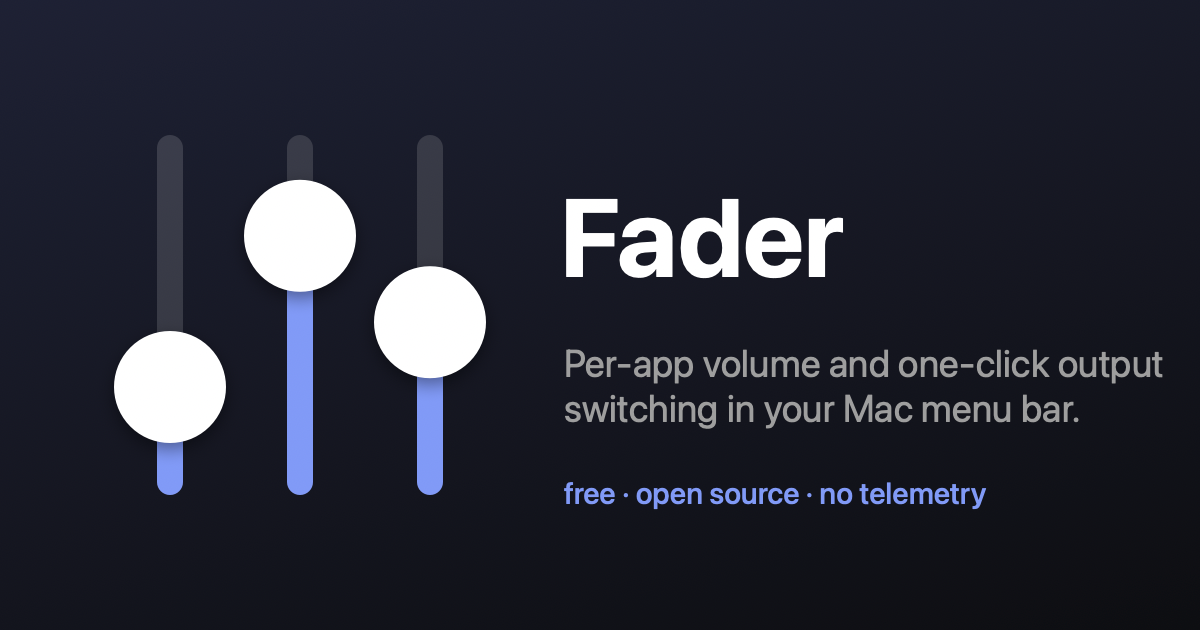
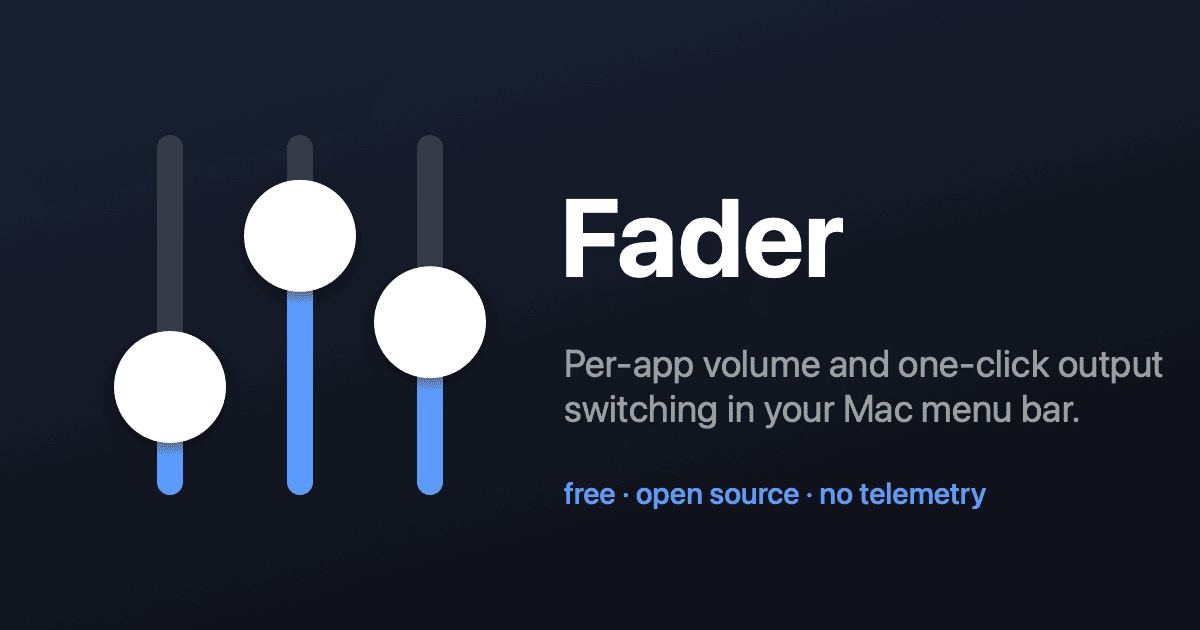
fix: harden pipelines, site, and audio path per full open-source review
Supply chain: actions pinned to commit SHAs; CI toolchain installed from
sha256-verified release archives (scripts/install-ci-tools.sh); dependabot
weekly. Release: idempotent (draft + clobber + publish), concurrency-
queued, p12 cleaned up on failure, keychain access scoped to codesign,
notary creds via keychain profile instead of ps-visible passwords.
Site: pointercancel handling for slider drags, security headers
(_headers), og/icon PNGs compressed 20x, version-floor wording unified,
sitemap lastmod. App: render falls back to passthrough when the
aggregate stream is not Float32 PCM, system volume/mute no longer
desyncs when a HAL write fails, monitor start() is idempotent, stale
Bluetooth refreshes can't overwrite fresher ones, app names redacted in
logs, dead code removed.

Review artifact: .reviews/fader-full-b471aab.md (local).

diff --git a/Fader/Audio/ProcessTap.swift b/Fader/Audio/ProcessTap.swift
@@ -21,6 +21,10 @@ final class ProcessTap: @unchecked Sendable {
     private nonisolated(unsafe) var _currentGain: Float
     /// Per-frame ramp coefficient for ~30 ms exponential gain smoothing.
     private nonisolated(unsafe) var _rampCoefficient: Float = 0.0007
+    /// The gain path assumes Float32 PCM. Verified at activation; on any other
+    /// format the render falls back to bit-exact passthrough instead of
+    /// reinterpreting foreign bytes as floats.
+    private nonisolated(unsafe) var _isFloat32 = true
 
     private var tapID = AudioObjectID.unknown
     private var aggregateID = AudioObjectID.unknown
@@ -84,6 +88,8 @@ final class ProcessTap: @unchecked Sendable {
         try? aggregateID.read(kAudioDevicePropertyNominalSampleRate, into: &sampleRate)
         _rampCoefficient = 1 - exp(-1 / (Float(sampleRate) * 0.030))
 
+        verifyStreamFormat()
+
         var proc: AudioDeviceIOProcID?
         try checked(
             // @Sendable strips inferred @MainActor isolation: the HAL invokes
@@ -103,6 +109,22 @@ final class ProcessTap: @unchecked Sendable {
         let processIDs = processObjectIDs.map(String.init).joined(separator: ",")
         Self.logger
             .info("Tap active for processes [\(processIDs, privacy: .public)]: tap \(tap), aggregate \(aggregate)")
+    }
+
+    /// Confirms the gain path's Float32 PCM assumption against the aggregate's
+    /// actual stream format; any other format flips the render to passthrough.
+    @MainActor
+    private func verifyStreamFormat() {
+        var format = AudioStreamBasicDescription()
+        guard (try? aggregateID.read(kAudioDevicePropertyStreamFormat,
+                                     scope: kAudioDevicePropertyScopeOutput,
+                                     into: &format)) != nil else { return }
+        _isFloat32 = format.mFormatID == kAudioFormatLinearPCM
+            && format.mFormatFlags & kAudioFormatFlagIsFloat != 0
+            && format.mBitsPerChannel == 32
+        if !_isFloat32 {
+            Self.logger.warning("Aggregate stream is not Float32 PCM; gain disabled, passing through")
+        }
     }
 
     /// Tears down in the HAL-required order: stop → IO proc → aggregate → tap.
@@ -141,6 +163,10 @@ final class ProcessTap: @unchecked Sendable {
             Self.silence(output)
             return
         }
+        if !_isFloat32 {
+            Self.passthrough(input, into: output)
+            return
+        }
 
         let inputs = UnsafeMutableAudioBufferListPointer(UnsafeMutablePointer(mutating: input))
         let outputs = UnsafeMutableAudioBufferListPointer(output)
@@ -161,13 +187,19 @@ final class ProcessTap: @unchecked Sendable {
             let count = min(Int(inputs[index].mDataByteSize) / MemoryLayout<Float>.size, outCount)
             let channels = max(1, Int(outBuffer.mNumberChannels))
 
-            gain = _currentGain
+            // One ramp shared across the buffer list; in practice taps deliver
+            // a single interleaved buffer, so this is exact.
             var frameGain = gain
             for frame in stride(from: 0, to: count, by: channels) {
                 frameGain += (targetGain - frameGain) * ramp
                 for channel in 0 ..< channels where frame + channel < count {
                     outSamples[frame + channel] = inSamples[frame + channel] * frameGain
                 }
+            }
+            // Snap once converged: stops the asymptotic tail (denormal-prone
+            // when ramping to 0 on non-Apple-silicon FPUs).
+            if abs(frameGain - targetGain) < 1e-6 {
+                frameGain = targetGain
             }
             gain = frameGain
             if count < outCount {
@@ -181,6 +213,25 @@ final class ProcessTap: @unchecked Sendable {
         for buffer in UnsafeMutableAudioBufferListPointer(output) {
             if let data = buffer.mData {
                 memset(data, 0, Int(buffer.mDataByteSize))
+            }
+        }
+    }
+
+    /// Bit-exact copy for unexpected stream formats: no gain, no reinterpretation.
+    private static func passthrough(_ input: UnsafePointer<AudioBufferList>,
+                                    into output: UnsafeMutablePointer<AudioBufferList>) {
+        let inputs = UnsafeMutableAudioBufferListPointer(UnsafeMutablePointer(mutating: input))
+        for (index, outBuffer) in UnsafeMutableAudioBufferListPointer(output).enumerated() {
+            guard let outData = outBuffer.mData else { continue }
+            let outBytes = Int(outBuffer.mDataByteSize)
+            guard index < inputs.count, let inData = inputs[index].mData else {
+                memset(outData, 0, outBytes)
+                continue
+            }
+            let bytes = min(Int(inputs[index].mDataByteSize), outBytes)
+            memcpy(outData, inData, bytes)
+            if bytes < outBytes {
+                memset(outData.advanced(by: bytes), 0, outBytes - bytes)
             }
         }
     }

diff --git a/Fader/Audio/SystemVolumeController.swift b/Fader/Audio/SystemVolumeController.swift
@@ -26,16 +26,25 @@ final class SystemVolumeController {
     }
 
     func setVolume(_ value: Float) {
-        volume = max(0, min(1, value))
-        try? device.write(kAudioHardwareServiceDeviceProperty_VirtualMainVolume,
-                          scope: kAudioDevicePropertyScopeOutput,
-                          value: volume)
+        let clamped = max(0, min(1, value))
+        do {
+            try device.write(kAudioHardwareServiceDeviceProperty_VirtualMainVolume,
+                             scope: kAudioDevicePropertyScopeOutput,
+                             value: clamped)
+            volume = clamped
+        } catch {
+            readBack() // keep published state honest when the HAL write fails
+        }
     }
 
     func toggleMute() {
         let next: UInt32 = isMuted ? 0 : 1
-        try? device.write(kAudioDevicePropertyMute, scope: kAudioDevicePropertyScopeOutput, value: next)
-        isMuted.toggle()
+        do {
+            try device.write(kAudioDevicePropertyMute, scope: kAudioDevicePropertyScopeOutput, value: next)
+            isMuted = next != 0
+        } catch {
+            readBack()
+        }
     }
 
     // MARK: - Private

diff --git a/Fader/Audio/BluetoothAudioMonitor.swift b/Fader/Audio/BluetoothAudioMonitor.swift
@@ -23,11 +23,20 @@ final class BluetoothAudioMonitor {
     /// Addresses with a connect/disconnect operation in flight.
     private(set) var busy: Set<String> = []
 
+    /// Orders overlapping refreshes: a stale enumeration that finishes late
+    /// must not overwrite a fresher list.
+    @ObservationIgnored private var refreshGeneration = 0
+
     /// Enumerates off the main actor — IOBluetooth calls can block.
     func refresh() {
+        refreshGeneration += 1
+        let generation = refreshGeneration
         Task.detached(priority: .userInitiated) {
             let devices = Self.readPairedAudioDevices()
-            await MainActor.run { [weak self] in self?.paired = devices }
+            await MainActor.run { [weak self] in
+                guard let self, generation == refreshGeneration else { return }
+                paired = devices
+            }
         }
     }
 

diff --git a/Fader/Audio/HALProperty.swift b/Fader/Audio/HALProperty.swift
@@ -19,6 +19,10 @@ extension AudioObjectID {
     }
 
     /// Reads a fixed-size property value.
+    ///
+    /// `T` must be a trivial C-layout value type (numbers, structs of them,
+    /// CoreAudio descriptors): the HAL blits raw bytes over it, which would
+    /// corrupt ARC-managed references. Strings go through `readString`.
     func read<T>(_ selector: AudioObjectPropertySelector,
                  scope: AudioObjectPropertyScope = kAudioObjectPropertyScopeGlobal,
                  into value: inout T) throws {
@@ -55,7 +59,8 @@ extension AudioObjectID {
         return value as String
     }
 
-    /// Writes a fixed-size property value.
+    /// Writes a fixed-size property value. Same `T` contract as `read`:
+    /// trivial C-layout value types only.
     func write<T>(_ selector: AudioObjectPropertySelector,
                   scope: AudioObjectPropertyScope = kAudioObjectPropertyScopeGlobal,
                   value: T) throws {
@@ -89,10 +94,6 @@ extension AudioObjectID {
         var pid: pid_t = -1
         try read(kAudioProcessPropertyPID, into: &pid)
         return pid
-    }
-
-    func readProcessBundleID() -> String {
-        (try? readString(kAudioProcessPropertyBundleID)) ?? ""
     }
 
     func readProcessIsRunningOutput() -> Bool {

diff --git a/Fader/Audio/AudioProcessMonitor.swift b/Fader/Audio/AudioProcessMonitor.swift
@@ -18,6 +18,7 @@ final class AudioProcessMonitor {
     @ObservationIgnored private var pollTask: Task<Void, Never>?
 
     func start() {
+        guard pollTask == nil else { return } // idempotent: a second call must not double-listen
         // List changes (process appeared / exited) arrive as HAL notifications.
         listListener = AudioObjectID.system.listen(kAudioHardwarePropertyProcessObjectList) {
             Task { @MainActor [weak self] in self?.scheduleRefresh() }
@@ -76,8 +77,10 @@ final class AudioProcessMonitor {
             else { continue }
 
             let key = running.processIdentifier
-            groups[key, default: Group(app: running)].objects.append(objectID)
-            groups[key]!.playing = groups[key]!.playing || objectID.readProcessIsRunningOutput()
+            var group = groups[key] ?? Group(app: running)
+            group.objects.append(objectID)
+            group.playing = group.playing || objectID.readProcessIsRunningOutput()
+            groups[key] = group
         }
 
         var nextApps = groups.compactMap { pid, group -> AudioApp? in
@@ -102,7 +105,8 @@ final class AudioProcessMonitor {
         if nextApps != apps {
             apps = nextApps
             let names = nextApps.map { "\($0.name)\($0.isPlaying ? "*" : "")" }.joined(separator: ", ")
-            Self.logger.info("Apps: \(nextApps.count)/\(objectIDs.count) HAL processes — \(names, privacy: .public)")
+            // App names stay redacted in the unified log (default .private).
+            Self.logger.info("Apps: \(nextApps.count)/\(objectIDs.count) HAL processes — \(names)")
         }
     }
 

diff --git a/Fader/Audio/VolumeStore.swift b/Fader/Audio/VolumeStore.swift
@@ -1,4 +1,5 @@
 import Foundation
+import os
 
 /// Per-app volume settings persisted across launches, keyed by bundle identifier.
 struct AppVolume: Codable, Equatable {
@@ -28,7 +29,12 @@ struct VolumeStore {
     func save(_ volumes: [String: AppVolume]) {
         // Neutral entries carry no information — drop them to keep the blob minimal.
         let meaningful = volumes.filter { !$0.value.isNeutral }
-        guard let data = try? JSONEncoder().encode(meaningful) else { return }
+        guard let data = try? JSONEncoder().encode(meaningful) else {
+            // Practically unreachable for [String: AppVolume]; don't fail silently.
+            Logger(subsystem: "dev.pantafive.fader", category: "VolumeStore")
+                .error("Failed to encode app volumes; settings not persisted")
+            return
+        }
         defaults.set(data, forKey: Self.key)
     }
 }

diff --git a/site/index.html b/site/index.html
@@ -285,8 +285,14 @@
       slider.setPointerCapture(event.pointerId);
       setValue(event);
       const move = (e) => setValue(e);
+      const stop = () => {
+        slider.removeEventListener("pointermove", move);
+        slider.removeEventListener("pointerup", stop);
+        slider.removeEventListener("pointercancel", stop);
+      };
       slider.addEventListener("pointermove", move);
-      slider.addEventListener("pointerup", () => slider.removeEventListener("pointermove", move), { once: true });
+      slider.addEventListener("pointerup", stop);
+      slider.addEventListener("pointercancel", stop);
     });
   });
 

diff --git a/Fader/Audio/MixerEngine.swift b/Fader/Audio/MixerEngine.swift
@@ -28,7 +28,6 @@ final class MixerEngine {
     @ObservationIgnored private var taps: [String: ProcessTap] = [:]
     @ObservationIgnored private let store = VolumeStore()
     @ObservationIgnored private var deviceListener: HALListener?
-    @ObservationIgnored private var appsObservation: (() -> Void)?
     @ObservationIgnored private var saveTask: Task<Void, Never>?
     @ObservationIgnored private var routingTask: Task<Void, Never>?
 

diff --git a/README.md b/README.md
@@ -4,7 +4,7 @@
 
 Volume control for macOS that lives in the menu bar: switch the output device with one click, connect Bluetooth headphones, and set a separate volume for every app. Site: [fader.pantafive.dev](https://fader.pantafive.dev).
 
-Fader is free and open source. It sends nothing anywhere — no telemetry, no analytics, no network access at all. Audio is processed on your Mac through the system's own Core Audio process taps (macOS 14.4+), so there is no kernel extension and no virtual audio driver to install.
+Fader is free and open source. It sends nothing anywhere — no telemetry, no analytics, no network access at all. Audio is processed on your Mac through the system's own Core Audio process taps (an API introduced in macOS 14.4; Fader supports macOS 15+), so there is no kernel extension and no virtual audio driver to install.
 
 ## Features
 